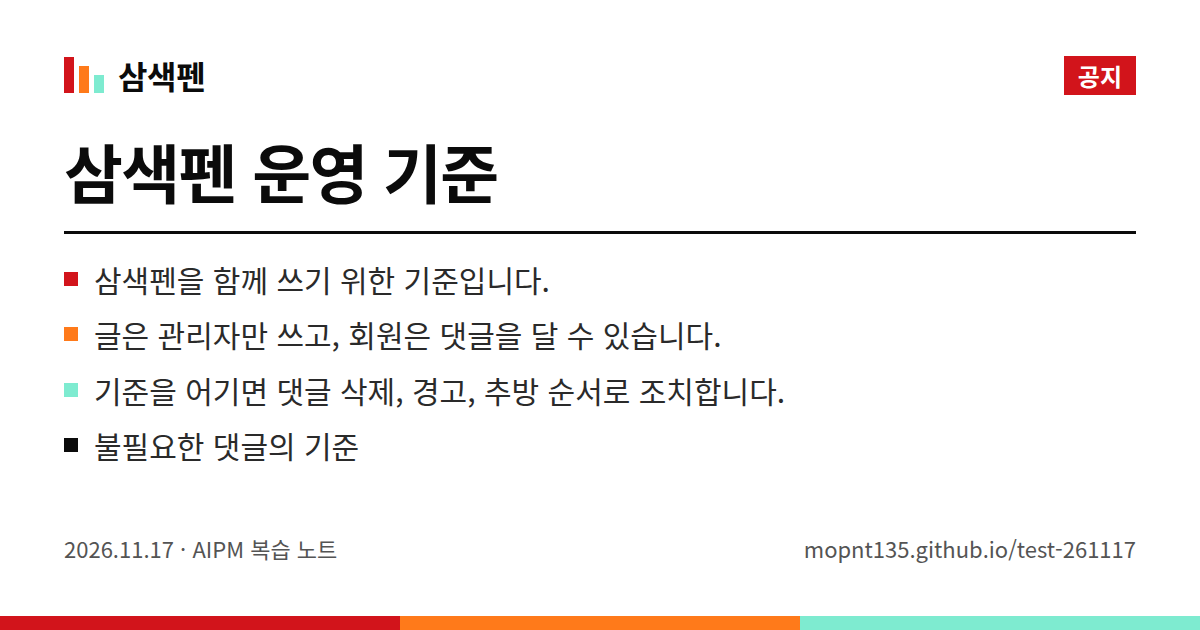
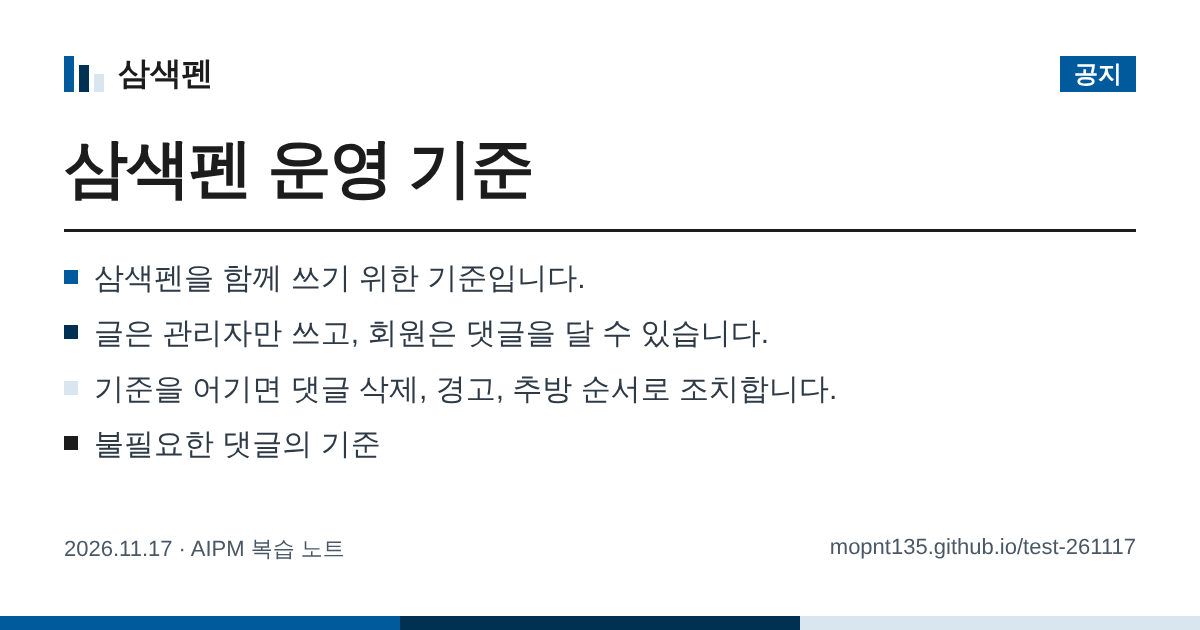
새 색을 검색·공유 페이지와 썸네일, 규칙 문서까지 적용 (위험 색은 빨강)
왜: 사용자가 초안을 보고 위험 버튼을 빨강으로 정했다. 블로그 화면 색
초안(94041a7)을 main 에 합치고, "전부" 바꾸기로 한 결정에 따라 나머지도 바꾼다.

- scripts/build-pages.js: 검색·공유 페이지 색 변수와 썸네일 카드 색을
  파랑, 남색, 연파랑, 검정으로. CARD_DESIGN 을 c3 로 올려 썸네일 주소의
  ?v= 가 바뀌게 했다(카카오톡이 새 그림을 가져가도록).
- p/notice*, og/site.png 다시 생성.
- CLAUDE.md 디자인 규칙: 기본 색 5가지, 강조 3단계, 다크모드 값,
  파랑 글자를 남색/검정 바탕에 쓰지 않는 규칙, --danger 는 되돌릴 수 없는
  조치에만.
- docs/TASKS.md: 로고 새로 만들기(세 번째 막대가 흐림) 할 일 추가.
- 테스트: 화면 72/72, 서버 25/25, 생성기 18/18.

Claude-Session: https://claude.ai/code/session_017BmF8tWy4fF2npSe36hDSh

diff --git a/scripts/build-pages.js b/scripts/build-pages.js
@@ -132,8 +132,8 @@ function postPage(p) {
 <link rel="preconnect" href="https://fonts.googleapis.com">
 <link rel="stylesheet" href="https://fonts.googleapis.com/css2?family=Gothic+A1:wght@700;900&family=IBM+Plex+Sans+KR:wght@400;700&display=swap">
 <style>
-:root{--bg:#fff;--fg:#0B0B0B;--muted:#545454;--line:#E2E2E2;--red:#D2141B;--orange:#C2410C;--orange-fill:#FF7A1A;--mint-fill:#7EEBD0;--on-orange:#0B0B0B}
-@media (prefers-color-scheme: dark){:root{--bg:#0D0D0D;--fg:#F5F5F5;--muted:#B0B0B0;--line:#2B2B2B;--red:#FF4A4F;--orange:#FF9B50;--orange-fill:#FF8A3D;--mint-fill:#2DD4B0;--on-orange:#0D0D0D;color-scheme:dark}}
+:root{--bg:#FFFFFF;--fg:#1C1C1C;--muted:#4A5866;--line:#B9C9D8;--red:#005A9C;--orange:#003153;--orange-fill:#003153;--mint-fill:#D9E6F0;--on-orange:#FFFFFF}
+@media (prefers-color-scheme: dark){:root{--bg:#1C1C1C;--fg:#D9E6F0;--muted:#9DAAB6;--line:#33404C;--red:#5CAEEA;--orange:#A9CDEB;--orange-fill:#D9E6F0;--mint-fill:#003153;--on-orange:#003153;color-scheme:dark}}
 *{box-sizing:border-box}
 body{margin:0;background:var(--bg);color:var(--fg);font-family:"IBM Plex Sans KR","Apple SD Gothic Neo","Malgun Gothic",sans-serif;font-size:17px;line-height:1.85;word-break:keep-all;overflow-wrap:break-word}
 a{color:inherit}
@@ -177,7 +177,7 @@ a:focus-visible{outline:3px solid var(--red);outline-offset:3px}
  * 글마다 다르게: 제목 + 본문 앞 세 줄(빨강, 주황, 민트 표시) + 날짜.
  * 글에 사진(JPG, PNG, GIF)이 첨부돼 있으면 첫 사진을 오른쪽에 넣는다.
  */
-const CARD_DESIGN = "c2"; // 카드 디자인을 바꾸면 이 값을 바꾼다. 썸네일 주소의 ?v= 가 바뀌어 카카오톡이 새로 가져간다
+const CARD_DESIGN = "c3"; // 카드 디자인을 바꾸면 이 값을 바꾼다. 썸네일 주소의 ?v= 가 바뀌어 카카오톡이 새로 가져간다
 const LINE_MAX = 60;
 // 사진이 있으면 세 줄(두 줄까지 줄바꿈), 없으면 네 줄
 async function cardContent(p) { const image = await thumbImage(p); return { image, lines: excerptLines(p, image ? 3 : 4) }; }
@@ -194,22 +194,22 @@ function cardHtml({ title, label, isNotice, date, lines = [], image, fontCss }) 
 ${fontCss || ""}
 *{box-sizing:border-box;margin:0;padding:0}
 html,body{width:1200px;height:630px}
-body{background:#fff;color:#0B0B0B;font-family:"Noto Sans KR","Noto Sans CJK KR","Apple SD Gothic Neo",sans-serif;position:relative;overflow:hidden;display:flex;gap:44px;padding:52px 64px 66px}
+body{background:#FFFFFF;color:#1C1C1C;font-family:"Noto Sans KR","Noto Sans CJK KR","Apple SD Gothic Neo",sans-serif;position:relative;overflow:hidden;display:flex;gap:44px;padding:52px 64px 66px}
 .main{flex:1;min-width:0;display:flex;flex-direction:column}
 .top{display:flex;align-items:center;justify-content:space-between;gap:16px}
 .brand{display:flex;align-items:center;gap:14px;font-size:32px;font-weight:900;letter-spacing:-.01em}
 .pens{display:flex;gap:5px;align-items:flex-end}.pens i{display:block;width:10px}
-.pens i:nth-child(1){height:36px;background:#D2141B}.pens i:nth-child(2){height:27px;background:#FF7A1A}.pens i:nth-child(3){height:18px;background:#7EEBD0}
-.label{font-size:24px;font-weight:700;color:#C2410C;white-space:nowrap}
-.label.notice{color:#fff;background:#D2141B;padding:2px 14px}
-h1{margin-top:34px;font-size:${tSize}px;line-height:1.2;font-weight:900;letter-spacing:-.025em;display:-webkit-box;-webkit-line-clamp:2;-webkit-box-orient:vertical;overflow:hidden;word-break:keep-all;padding-bottom:22px;border-bottom:3px solid #0B0B0B}
+.pens i:nth-child(1){height:36px;background:#005A9C}.pens i:nth-child(2){height:27px;background:#003153}.pens i:nth-child(3){height:18px;background:#D9E6F0}
+.label{font-size:24px;font-weight:700;color:#003153;white-space:nowrap}
+.label.notice{color:#fff;background:#005A9C;padding:2px 14px}
+h1{margin-top:34px;font-size:${tSize}px;line-height:1.2;font-weight:900;letter-spacing:-.025em;display:-webkit-box;-webkit-line-clamp:2;-webkit-box-orient:vertical;overflow:hidden;word-break:keep-all;padding-bottom:22px;border-bottom:3px solid #1C1C1C}
 ul{list-style:none;margin-top:24px;display:flex;flex-direction:column;gap:12px}
-li{display:flex;gap:16px;align-items:flex-start;font-size:${withImg ? 26 : 30}px;line-height:1.45;color:#2A2A2A}
+li{display:flex;gap:16px;align-items:flex-start;font-size:${withImg ? 26 : 30}px;line-height:1.45;color:#2E3A46}
 li i{flex:none;width:14px;height:14px;margin-top:${withImg ? 12 : 14}px}
 li span{display:-webkit-box;-webkit-line-clamp:${withImg ? 2 : 1};-webkit-box-orient:vertical;overflow:hidden;word-break:keep-all}
-li:nth-child(1) i{background:#D2141B}li:nth-child(2) i{background:#FF7A1A}li:nth-child(3) i{background:#7EEBD0}li:nth-child(4) i{background:#0B0B0B}
-.foot{margin-top:auto;display:flex;justify-content:space-between;font-size:22px;color:#545454}
-.pic{flex:none;width:400px;height:100%;border:3px solid #0B0B0B;background:#F4F4F4 center/cover no-repeat}
+li:nth-child(1) i{background:#005A9C}li:nth-child(2) i{background:#003153}li:nth-child(3) i{background:#D9E6F0}li:nth-child(4) i{background:#1C1C1C}
+.foot{margin-top:auto;display:flex;justify-content:space-between;font-size:22px;color:#4A5866}
+.pic{flex:none;width:400px;height:100%;border:3px solid #1C1C1C;background:#EEF3F8 center/cover no-repeat}
 .bars{position:absolute;left:0;right:0;bottom:0;height:14px;display:flex}.bars i{flex:1}
 </style></head><body>
 <div class="main">
@@ -219,7 +219,7 @@ li:nth-child(1) i{background:#D2141B}li:nth-child(2) i{background:#FF7A1A}li:nth
   <div class="foot"><span>${esc(date || "AIPM 복습 노트")}</span><span>mopnt135.github.io/test-261117</span></div>
 </div>
 ${withImg ? `<div class="pic" style="background-image:url('${image}')"></div>` : ""}
-<div class="bars"><i style="background:#D2141B"></i><i style="background:#FF7A1A"></i><i style="background:#7EEBD0"></i></div>
+<div class="bars"><i style="background:#005A9C"></i><i style="background:#003153"></i><i style="background:#D9E6F0"></i></div>
 </body></html>`;
 }
 

diff --git a/p/notice-rules/index.html b/p/notice-rules/index.html
@@ -12,7 +12,7 @@
 <meta property="og:title" content="삼색펜 운영 기준">
 <meta property="og:description" content="삼색펜을 함께 쓰기 위한 기준입니다. 글은 관리자만 쓰고, 회원은 댓글을 달 수 있습니다. 기준을 어기면 댓글 삭제, 경고, 추방 순서로 조치합니다. 불필요한 댓글의 기준 1. 글 주제와 관계없는 광고나 홍보 댓글…">
 <meta property="og:url" content="https://mopnt135.github.io/test-261117/p/notice-rules/">
-<meta property="og:image" content="https://mopnt135.github.io/test-261117/p/notice-rules/og.png?v=mwkcehs0c2">
+<meta property="og:image" content="https://mopnt135.github.io/test-261117/p/notice-rules/og.png?v=mwkcehs0c3">
 <meta property="og:image:width" content="1200">
 <meta property="og:image:height" content="630">
 <meta property="og:image:alt" content="삼색펜 운영 기준">
@@ -22,13 +22,13 @@
 <meta name="twitter:card" content="summary_large_image">
 <meta name="twitter:title" content="삼색펜 운영 기준">
 <meta name="twitter:description" content="삼색펜을 함께 쓰기 위한 기준입니다. 글은 관리자만 쓰고, 회원은 댓글을 달 수 있습니다. 기준을 어기면 댓글 삭제, 경고, 추방 순서로 조치합니다. 불필요한 댓글의 기준 1. 글 주제와 관계없는 광고나 홍보 댓글…">
-<meta name="twitter:image" content="https://mopnt135.github.io/test-261117/p/notice-rules/og.png?v=mwkcehs0c2">
-<script type="application/ld+json">{"@context":"https://schema.org","@type":"BlogPosting","headline":"삼색펜 운영 기준","description":"삼색펜을 함께 쓰기 위한 기준입니다. 글은 관리자만 쓰고, 회원은 댓글을 달 수 있습니다. 기준을 어기면 댓글 삭제, 경고, 추방 순서로 조치합니다. 불필요한 댓글의 기준 1. 글 주제와 관계없는 광고나 홍보 댓글…","image":"https://mopnt135.github.io/test-261117/p/notice-rules/og.png?v=mwkcehs0c2","url":"https://mopnt135.github.io/test-261117/p/notice-rules/","mainEntityOfPage":"https://mopnt135.github.io/test-261117/p/notice-rules/","datePublished":"2026-11-17T13:00:00+09:00","dateModified":"2026-11-17T16:00:00+09:00","articleSection":"공지","inLanguage":"ko-KR","author":{"@type":"Organization","name":"삼색펜"},"publisher":{"@type":"Organization","name":"삼색펜"}}</script>
+<meta name="twitter:image" content="https://mopnt135.github.io/test-261117/p/notice-rules/og.png?v=mwkcehs0c3">
+<script type="application/ld+json">{"@context":"https://schema.org","@type":"BlogPosting","headline":"삼색펜 운영 기준","description":"삼색펜을 함께 쓰기 위한 기준입니다. 글은 관리자만 쓰고, 회원은 댓글을 달 수 있습니다. 기준을 어기면 댓글 삭제, 경고, 추방 순서로 조치합니다. 불필요한 댓글의 기준 1. 글 주제와 관계없는 광고나 홍보 댓글…","image":"https://mopnt135.github.io/test-261117/p/notice-rules/og.png?v=mwkcehs0c3","url":"https://mopnt135.github.io/test-261117/p/notice-rules/","mainEntityOfPage":"https://mopnt135.github.io/test-261117/p/notice-rules/","datePublished":"2026-11-17T13:00:00+09:00","dateModified":"2026-11-17T16:00:00+09:00","articleSection":"공지","inLanguage":"ko-KR","author":{"@type":"Organization","name":"삼색펜"},"publisher":{"@type":"Organization","name":"삼색펜"}}</script>
 <link rel="preconnect" href="https://fonts.googleapis.com">
 <link rel="stylesheet" href="https://fonts.googleapis.com/css2?family=Gothic+A1:wght@700;900&family=IBM+Plex+Sans+KR:wght@400;700&display=swap">
 <style>
-:root{--bg:#fff;--fg:#0B0B0B;--muted:#545454;--line:#E2E2E2;--red:#D2141B;--orange:#C2410C;--orange-fill:#FF7A1A;--mint-fill:#7EEBD0;--on-orange:#0B0B0B}
-@media (prefers-color-scheme: dark){:root{--bg:#0D0D0D;--fg:#F5F5F5;--muted:#B0B0B0;--line:#2B2B2B;--red:#FF4A4F;--orange:#FF9B50;--orange-fill:#FF8A3D;--mint-fill:#2DD4B0;--on-orange:#0D0D0D;color-scheme:dark}}
+:root{--bg:#FFFFFF;--fg:#1C1C1C;--muted:#4A5866;--line:#B9C9D8;--red:#005A9C;--orange:#003153;--orange-fill:#003153;--mint-fill:#D9E6F0;--on-orange:#FFFFFF}
+@media (prefers-color-scheme: dark){:root{--bg:#1C1C1C;--fg:#D9E6F0;--muted:#9DAAB6;--line:#33404C;--red:#5CAEEA;--orange:#A9CDEB;--orange-fill:#D9E6F0;--mint-fill:#003153;--on-orange:#003153;color-scheme:dark}}
 *{box-sizing:border-box}
 body{margin:0;background:var(--bg);color:var(--fg);font-family:"IBM Plex Sans KR","Apple SD Gothic Neo","Malgun Gothic",sans-serif;font-size:17px;line-height:1.85;word-break:keep-all;overflow-wrap:break-word}
 a{color:inherit}

diff --git a/p/notice/index.html b/p/notice/index.html
@@ -12,7 +12,7 @@
 <meta property="og:title" content="삼색펜 이용 안내">
 <meta property="og:description" content="삼색펜에 오신 것을 환영합니다. 이 블로그는 아래 규칙으로 운영됩니다. 1. 글은 관리자만 씁니다. 로그인하지 않은 방문자도 공개된 글을 모두 읽을 수 있습니다. 2. 댓글은 로그인한 회원이 달 수 있습니다. 회원가…">
 <meta property="og:url" content="https://mopnt135.github.io/test-261117/p/notice/">
-<meta property="og:image" content="https://mopnt135.github.io/test-261117/p/notice/og.png?v=mwka9c00c2">
+<meta property="og:image" content="https://mopnt135.github.io/test-261117/p/notice/og.png?v=mwka9c00c3">
 <meta property="og:image:width" content="1200">
 <meta property="og:image:height" content="630">
 <meta property="og:image:alt" content="삼색펜 이용 안내">
@@ -22,13 +22,13 @@
 <meta name="twitter:card" content="summary_large_image">
 <meta name="twitter:title" content="삼색펜 이용 안내">
 <meta name="twitter:description" content="삼색펜에 오신 것을 환영합니다. 이 블로그는 아래 규칙으로 운영됩니다. 1. 글은 관리자만 씁니다. 로그인하지 않은 방문자도 공개된 글을 모두 읽을 수 있습니다. 2. 댓글은 로그인한 회원이 달 수 있습니다. 회원가…">
-<meta name="twitter:image" content="https://mopnt135.github.io/test-261117/p/notice/og.png?v=mwka9c00c2">
-<script type="application/ld+json">{"@context":"https://schema.org","@type":"BlogPosting","headline":"삼색펜 이용 안내","description":"삼색펜에 오신 것을 환영합니다. 이 블로그는 아래 규칙으로 운영됩니다. 1. 글은 관리자만 씁니다. 로그인하지 않은 방문자도 공개된 글을 모두 읽을 수 있습니다. 2. 댓글은 로그인한 회원이 달 수 있습니다. 회원가…","image":"https://mopnt135.github.io/test-261117/p/notice/og.png?v=mwka9c00c2","url":"https://mopnt135.github.io/test-261117/p/notice/","mainEntityOfPage":"https://mopnt135.github.io/test-261117/p/notice/","datePublished":"2026-11-17T09:00:00+09:00","dateModified":"2026-11-17T15:00:00+09:00","articleSection":"공지","inLanguage":"ko-KR","author":{"@type":"Organization","name":"삼색펜"},"publisher":{"@type":"Organization","name":"삼색펜"}}</script>
+<meta name="twitter:image" content="https://mopnt135.github.io/test-261117/p/notice/og.png?v=mwka9c00c3">
+<script type="application/ld+json">{"@context":"https://schema.org","@type":"BlogPosting","headline":"삼색펜 이용 안내","description":"삼색펜에 오신 것을 환영합니다. 이 블로그는 아래 규칙으로 운영됩니다. 1. 글은 관리자만 씁니다. 로그인하지 않은 방문자도 공개된 글을 모두 읽을 수 있습니다. 2. 댓글은 로그인한 회원이 달 수 있습니다. 회원가…","image":"https://mopnt135.github.io/test-261117/p/notice/og.png?v=mwka9c00c3","url":"https://mopnt135.github.io/test-261117/p/notice/","mainEntityOfPage":"https://mopnt135.github.io/test-261117/p/notice/","datePublished":"2026-11-17T09:00:00+09:00","dateModified":"2026-11-17T15:00:00+09:00","articleSection":"공지","inLanguage":"ko-KR","author":{"@type":"Organization","name":"삼색펜"},"publisher":{"@type":"Organization","name":"삼색펜"}}</script>
 <link rel="preconnect" href="https://fonts.googleapis.com">
 <link rel="stylesheet" href="https://fonts.googleapis.com/css2?family=Gothic+A1:wght@700;900&family=IBM+Plex+Sans+KR:wght@400;700&display=swap">
 <style>
-:root{--bg:#fff;--fg:#0B0B0B;--muted:#545454;--line:#E2E2E2;--red:#D2141B;--orange:#C2410C;--orange-fill:#FF7A1A;--mint-fill:#7EEBD0;--on-orange:#0B0B0B}
-@media (prefers-color-scheme: dark){:root{--bg:#0D0D0D;--fg:#F5F5F5;--muted:#B0B0B0;--line:#2B2B2B;--red:#FF4A4F;--orange:#FF9B50;--orange-fill:#FF8A3D;--mint-fill:#2DD4B0;--on-orange:#0D0D0D;color-scheme:dark}}
+:root{--bg:#FFFFFF;--fg:#1C1C1C;--muted:#4A5866;--line:#B9C9D8;--red:#005A9C;--orange:#003153;--orange-fill:#003153;--mint-fill:#D9E6F0;--on-orange:#FFFFFF}
+@media (prefers-color-scheme: dark){:root{--bg:#1C1C1C;--fg:#D9E6F0;--muted:#9DAAB6;--line:#33404C;--red:#5CAEEA;--orange:#A9CDEB;--orange-fill:#D9E6F0;--mint-fill:#003153;--on-orange:#003153;color-scheme:dark}}
 *{box-sizing:border-box}
 body{margin:0;background:var(--bg);color:var(--fg);font-family:"IBM Plex Sans KR","Apple SD Gothic Neo","Malgun Gothic",sans-serif;font-size:17px;line-height:1.85;word-break:keep-all;overflow-wrap:break-word}
 a{color:inherit}

diff --git a/docs/ARCHITECTURE.md b/docs/ARCHITECTURE.md
@@ -154,7 +154,7 @@ flowchart LR
 | --- | --- |
 | `scripts/build-pages.js` | 생성기. 의존 패키지 없음(썸네일만 Playwright). 공개글만 만들고, 공개가 아니게 된 글의 폴더는 지운다 |
 | `p/<글번호>/index.html` | 글 제목, 설명, 대표 주소(canonical), og/twitter 태그, BlogPosting 구조화 데이터, 본문, "블로그에서 보고 댓글 달기" 링크 |
-| `p/<글번호>/og.png` | 글마다 다른 썸네일. 제목, 본문 앞줄(빨강, 주황, 민트 표시, 사진 없으면 4줄), 날짜를 넣는다. 글에 사진(JPG, PNG, GIF)이 첨부돼 있으면 첫 사진을 오른쪽에 넣는다. 사진은 공개용 키로 임시 주소를 받아 내려받고, 파일 앞부분으로 형식을 다시 확인한다 |
+| `p/<글번호>/og.png` | 글마다 다른 썸네일. 제목, 본문 앞줄(파랑, 남색, 연파랑 표시, 사진 없으면 4줄), 날짜를 넣는다. 글에 사진(JPG, PNG, GIF)이 첨부돼 있으면 첫 사진을 오른쪽에 넣는다. 사진은 공개용 키로 임시 주소를 받아 내려받고, 파일 앞부분으로 형식을 다시 확인한다 |
 | `og/site.png` | 첫 화면 공유용 카드 |
 | `sitemap.xml`, `robots.txt` | 검색엔진에 페이지 목록을 알려준다 |
 | `.github/workflows/seo-pages.yml` | 매일 06:17, 18:17 KST 와 index.html 이 바뀔 때 생성기를 돌리고 바뀐 파일을 커밋 |

diff --git a/docs/TASKS.md b/docs/TASKS.md
@@ -22,7 +22,8 @@
 | 2026-11-18 | 첫 화면 "쉬어가기" 고양이 사진 (The Cat API) | `d8db85e` |
 | 2026-11-18 | 쉬어가기를 왼쪽 칸으로, 날씨(OpenWeatherMap)와 포켓몬(PokéAPI) 추가 | `3a35e67` |
 | 2026-11-18 | 날씨 카드 삭제 (사용자 요청) | `6b1ec23` |
-| 2026-11-19 | UTM 링크 규칙과 목록, 블로그 화면이 UTM 을 GA 로 넘기도록 수정 | 이 줄을 추가한 커밋 |
+| 2026-11-19 | UTM 링크 규칙과 목록, 블로그 화면이 UTM 을 GA 로 넘기도록 수정 | `277a4a8` |
+| 2026-11-23 | 기본 색 5가지로 변경(파랑, 남색, 연파랑, 검정, 흰색), 위험 색 빨강 분리, 썸네일과 검색·공유 페이지도 새 색 | 이 줄을 추가한 커밋 |
 
 ## 남은 일
 
@@ -40,6 +41,8 @@
 
 
 - [ ] **OpenWeatherMap 키 폐기.** 날씨 카드는 지웠지만 키는 GitHub 커밋 기록(`7115c2c`)에 남아 있다. OpenWeatherMap 계정에서 이 키를 지우거나 끈다. 사람이 할 일.
+
+- [ ] **로고 새로 만들기.** 색만 새 파랑 계열로 바꿨다. 세 번째 막대(연파랑)가 흰 바탕에서 흐리다. 썸네일의 세 번째 줄 표시도 같다.
 
 ### 주황
 - [ ] 관리 기록 표 `admin_logs` 와 화면: 누가, 언제, 무엇을, 왜 (US-3, 4, 5)
